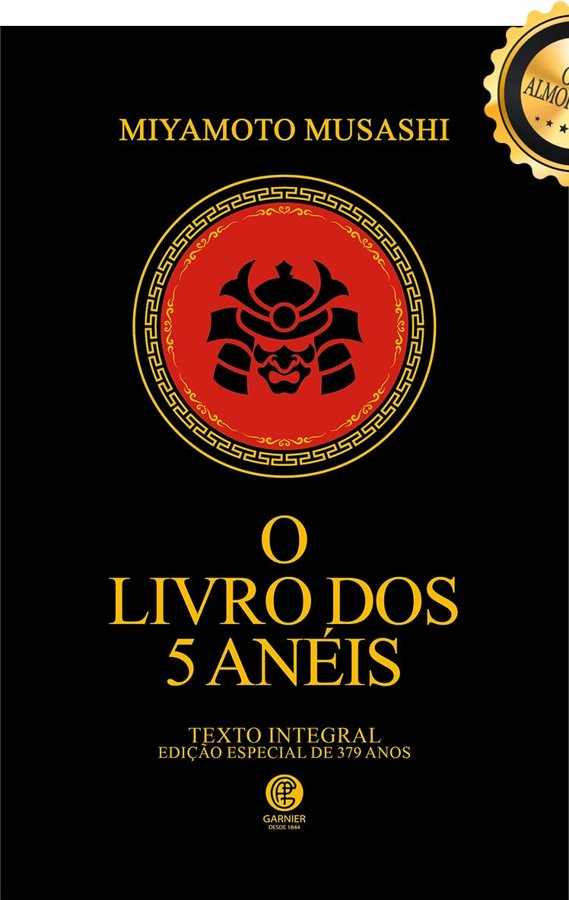
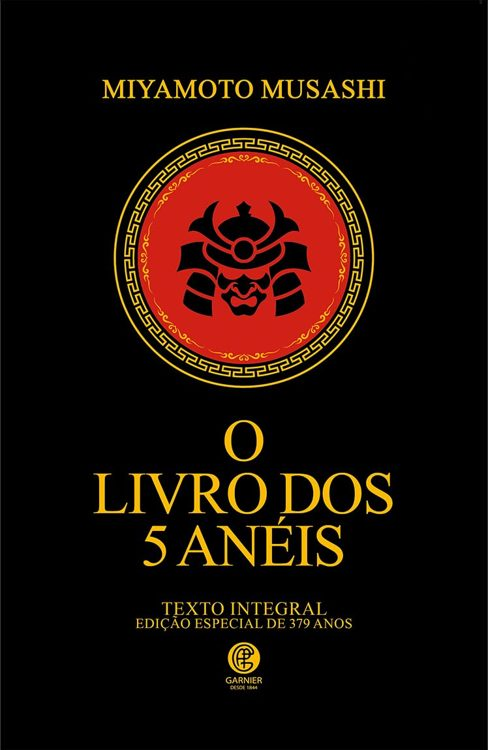
Capas menores e sem selo, combo em pilha, cabeçalho sem desfoque

Changed region(s): [[0.1844, 0.092, 0.8299, 0.7667], [0.0, 0.0, 1.0, 0.2147], [0.2766, 0.7973, 0.7377, 0.92]]

diff --git a/index.html b/index.html
@@ -42,7 +42,7 @@ a{color:inherit}
 .publi b{color:var(--ouro);font-weight:600;letter-spacing:.04em}
 
 /* topo */
-.topo{position:sticky;top:0;z-index:10;background:rgba(21,17,12,.88);-webkit-backdrop-filter:blur(10px);backdrop-filter:blur(10px);border-bottom:1px solid var(--linha)}
+.topo{position:sticky;top:0;z-index:10;background:rgba(21,17,12,.97);border-bottom:1px solid var(--linha)}
 .topo .envelope{display:flex;align-items:center;justify-content:space-between;gap:12px;height:64px}
 .marca{display:flex;align-items:center;gap:12px;text-decoration:none;min-width:0}
 .retrato{flex:none;border-radius:50%;border:1px solid var(--ouro);background:var(--breu-2) url(wis.jpg) 37% 41% / 220% auto no-repeat}
@@ -318,7 +318,7 @@ function cartaoLivro(l){
   capa.style.setProperty('--c1', s.c1); capa.style.setProperty('--c2', s.c2);
   if(l.capa){
     capa.classList.add('foto');
-    const img = el('img'); img.alt = ''; img.loading = 'lazy'; img.src = l.capa;
+    const img = el('img'); img.alt = ''; img.loading = 'lazy'; img.decoding = 'async'; img.width = 500; img.height = 750; img.src = l.capa;
     capa.append(img);
   } else {
     capa.append(el('span','selo','WISDOM'), el('span','t',l.titulo), el('span','fil'), el('span','a',l.autor));
